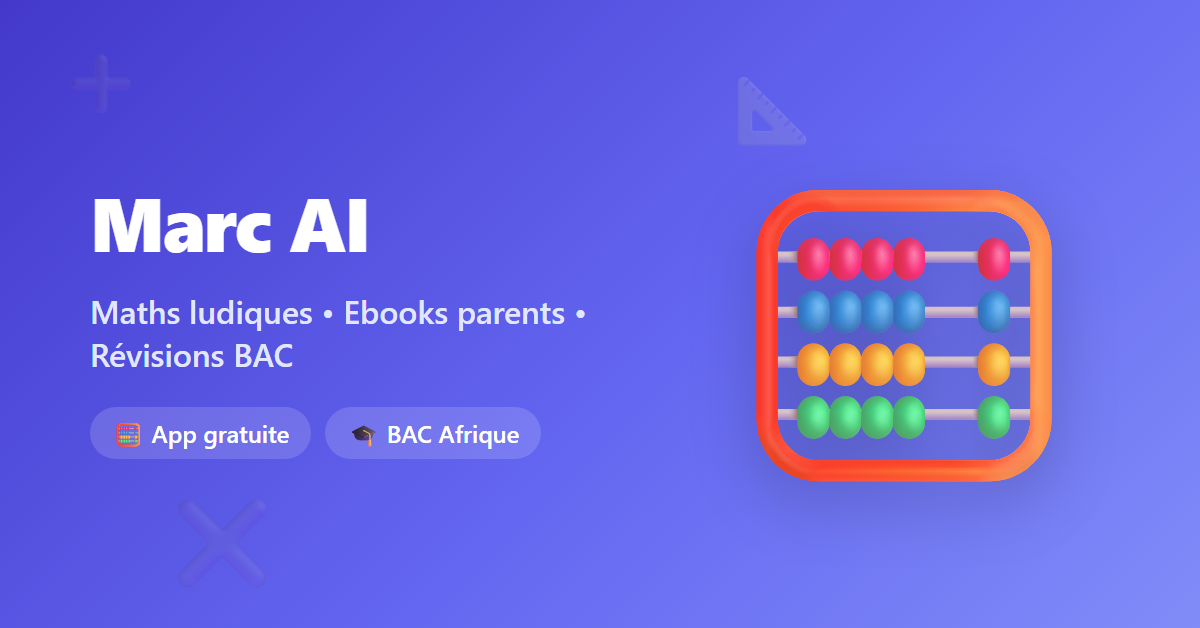
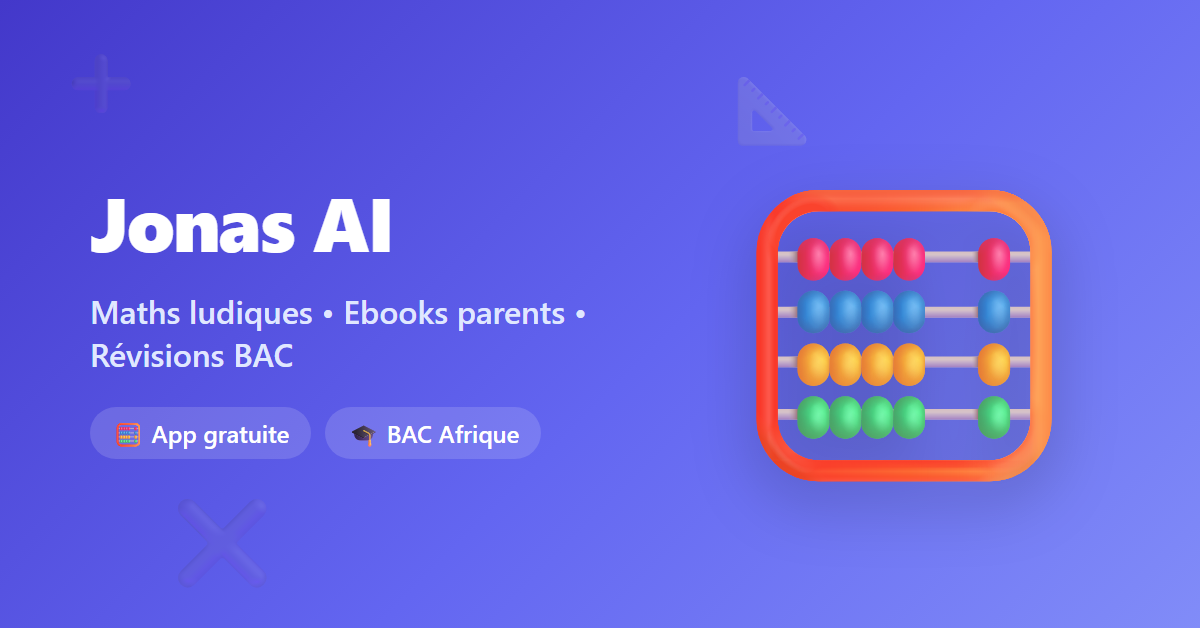
Renomme le rebranding Facebook de Marc AI en Jonas AI

Changed region(s): [[0.0617, 0.3025, 0.3392, 0.4236]]

diff --git a/marketing/assets/cover.html b/marketing/assets/cover.html
@@ -69,7 +69,7 @@
     <span class="icons i2">✖️</span>
     <span class="icons i3">📐</span>
     <div class="left">
-      <p class="title">Marc AI</p>
+      <p class="title">Jonas AI</p>
       <p class="subtitle">Maths ludiques • Ebooks parents • Révisions BAC</p>
       <div class="badges">
         <span class="badge">🧮 App gratuite</span>

diff --git a/marketing/assets/profile.html b/marketing/assets/profile.html
@@ -34,7 +34,7 @@
 <body>
   <div class="canvas">
     <div class="icon">🧮</div>
-    <div class="word">Marc AI</div>
+    <div class="word">Jonas AI</div>
   </div>
 </body>
 </html>

diff --git a/marketing/reseaux-sociaux.md b/marketing/reseaux-sociaux.md
@@ -22,7 +22,7 @@ Maths pour enfants 🧮 | Ebooks parents 📚 | Révisions BAC 🎓
 
 ### Facebook (description courte, ~255 caractères)
 ```
-Marc AI — une app de maths ludique pour les enfants (CP-CE1), des
+Jonas AI — une app de maths ludique pour les enfants (CP-CE1), des
 ebooks pratiques pour les parents, et des ressources gratuites de révision
 du Baccalauréat pour l'Afrique francophone, avec correction de sujets par
 IA.
@@ -30,7 +30,7 @@ IA.
 
 ### Facebook (section "À propos" détaillée)
 ```
-Marc AI est une plateforme éducative pensée pour trois publics :
+Jonas AI est une plateforme éducative pensée pour trois publics :
 
 🧮 Les enfants du primaire, avec une app de maths gratuite et ludique
 (niveau CP et CE1, avec progression et récompenses).